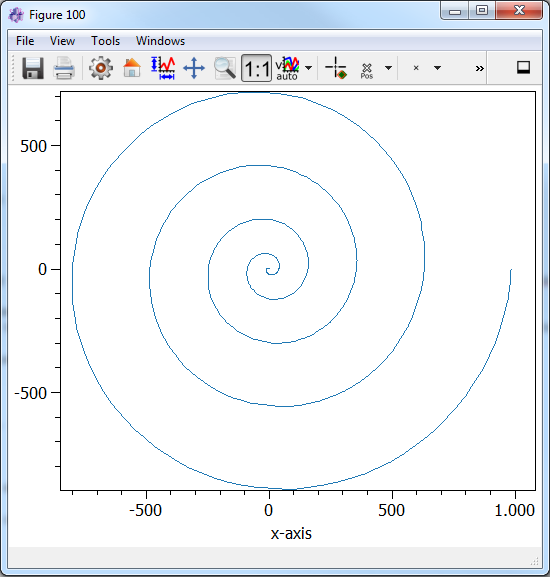
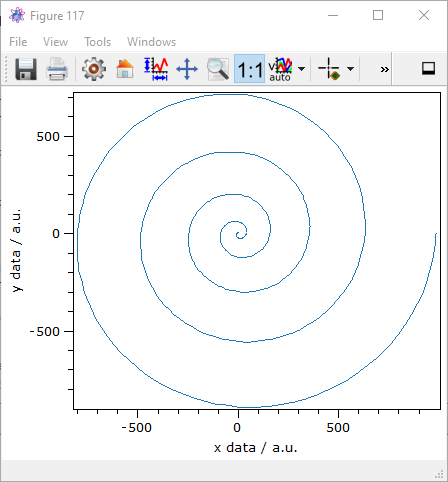
added some :lipstick: to the plot xy function of itom. As the axislabel the valueDescription and valueUnit definition is used.

diff --git a/demo/plots/plotXY.py b/demo/plots/plotXY.py
@@ -14,6 +14,13 @@ def demo_plotXY():
     x = dataObject([1, angle.shape[0]], dtype="float32")
     y = dataObject([1, angle.shape[0]], dtype="float32")
 
+    # for the axis labels the valueDescription and valueUnit of the two data is used
+    x.valueDescription = "x data"
+    x.valueUnit = "a.u."
+
+    y.valueDescription = "y data"
+    y.valueUnit = "a.u."
+
     radius = angle ** 2
     x[:, :] = (radius * np.cos(angle)).astype("float32")
     y[:, :] = (radius * np.sin(angle)).astype("float32")

diff --git a/docs/userDoc/source/05_plots/linePlots.rst b/docs/userDoc/source/05_plots/linePlots.rst
@@ -45,6 +45,7 @@ It is also possible to set an optional x-vector to the plot. This can only be
 done by giving a second argument to the :py:meth:`~itom.plot1` function or by 
 setting the property **xData** to an existing plot. To plot an N x M 
 dataObject, the x-vector has to be a 1 x M dataObject. 
+For the y axis and x axis label the valueDescription and valueUnit definitions are taken accordingly. 
 
 .. figure:: images/spiral.png
     :scale: 100%
